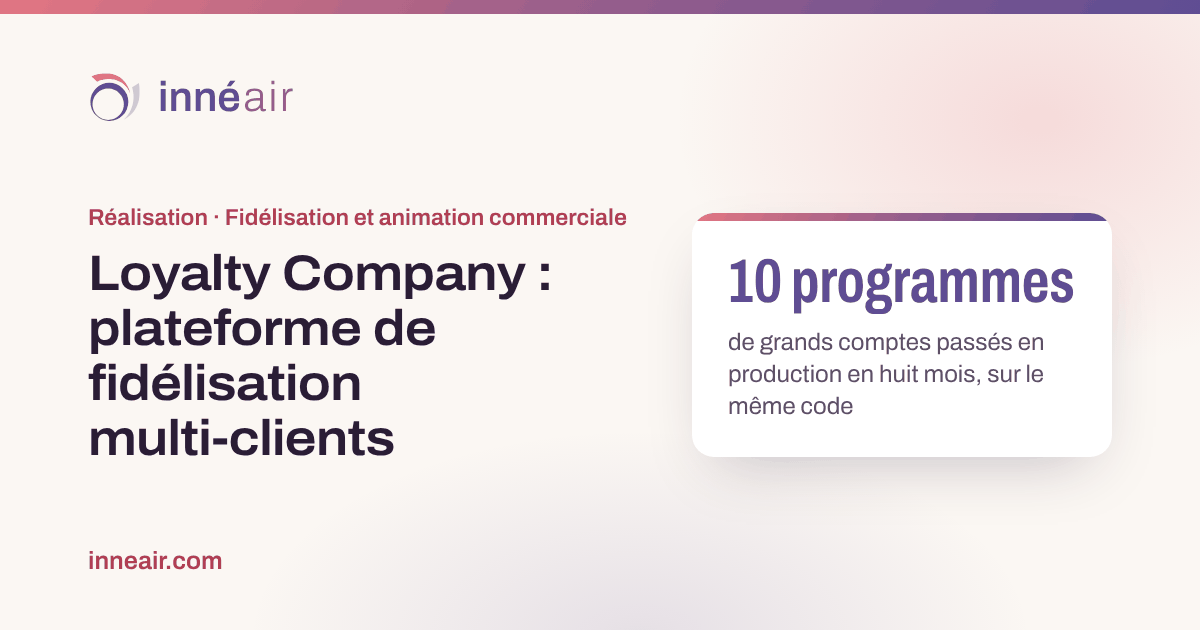
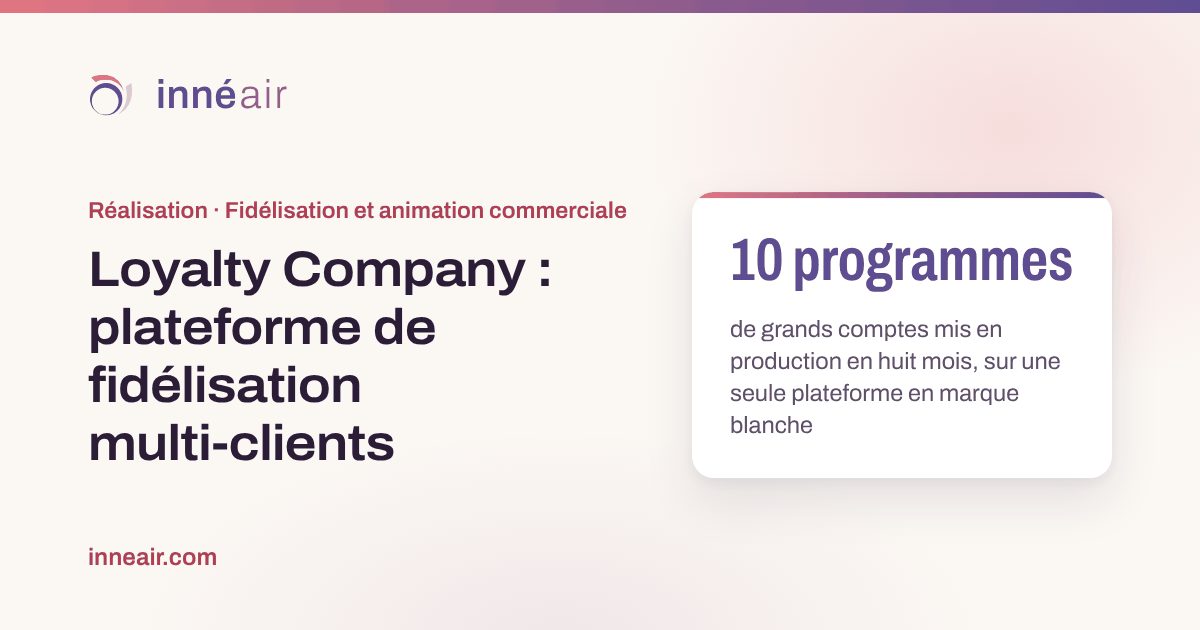
feat: align the Loyalty Company case with the corrected valorisation
- Role: Innéair led the development team (up to five developers) and piloted
  the platform with the product owner.
- MAX described as a white-label platform shared by all programmes; 10 key-account
  programmes put into production in eight months (homepage and cards, instead of 15-20).
- Muse Motivation and Kiss The Bride placed as the group's agencies since 2017;
  Muse presented MAX as its digital platform.
- Four authentication methods in production, named; all piloted by Innéair,
  SAML and signed links integrated by Innéair.
- Demo count and team size removed from key figures; delivery pace (35 versions
  in 18 months) and export rewrite (1 GB → 10 MB) put forward.
- Preview image updated.

Claude-Session: https://claude.ai/code/session_01AzLCSSsoxGkjDysbMUSmbQ

diff --git a/realisations/loyalty-company-plateforme-fidelisation.html b/realisations/loyalty-company-plateforme-fidelisation.html
@@ -4,18 +4,18 @@
 	<meta charset="utf-8">
 	<meta name="viewport" content="width=device-width, initial-scale=1">
 	<title>Loyalty Company : plateforme de fidélisation multi-clients | Innéair</title>
-	<meta name="description" content="Loyalty Company : Innéair a posé la structure de MAX, une seule application configurée pour chaque programme de fidélisation, et en a assuré la responsabilité technique.">
+	<meta name="description" content="Loyalty Company : Innéair a posé la structure de MAX, une seule application configurée pour chaque programme de fidélisation, et en a dirigé l'équipe de développement.">
 	<link rel="canonical" href="https://inneair.com/realisations/loyalty-company-plateforme-fidelisation.html">
 	<meta property="og:type" content="article">
 	<meta property="og:locale" content="fr_FR">
 	<meta property="og:site_name" content="Innéair">
 	<meta property="og:url" content="https://inneair.com/realisations/loyalty-company-plateforme-fidelisation.html">
 	<meta property="og:title" content="Loyalty Company : une plateforme de fidélisation pour les programmes de plusieurs grands comptes">
-	<meta property="og:description" content="Loyalty Company : Innéair a posé la structure de MAX, une seule application configurée pour chaque programme de fidélisation, et en a assuré la responsabilité technique.">
+	<meta property="og:description" content="Loyalty Company : Innéair a posé la structure de MAX, une seule application configurée pour chaque programme de fidélisation, et en a dirigé l'équipe de développement.">
 	<meta property="og:image" content="https://inneair.com/images/og/loyalty-company.png">
 	<meta property="og:image:width" content="1200">
 	<meta property="og:image:height" content="630">
-	<meta property="og:image:alt" content="Loyalty Company : 10 programmes de grands comptes passés en production en huit mois, sur le même code">
+	<meta property="og:image:alt" content="Loyalty Company : 10 programmes de grands comptes mis en production en huit mois, sur une seule plateforme en marque blanche">
 	<meta name="twitter:card" content="summary_large_image">
 	<link rel="preload" href="/assets/fonts/archivo-latin.woff2" as="font" type="font/woff2" crossorigin>
 	<link rel="stylesheet" href="/assets/css/main.css">
@@ -30,7 +30,7 @@
 				"@type": "Article",
 				"@id": "https://inneair.com/realisations/loyalty-company-plateforme-fidelisation.html#projet",
 				"headline": "Loyalty Company : une plateforme de fidélisation pour les programmes de plusieurs grands comptes",
-				"description": "Loyalty Company : Innéair a posé la structure de MAX, une seule application configurée pour chaque programme de fidélisation, et en a assuré la responsabilité technique.",
+				"description": "Loyalty Company : Innéair a posé la structure de MAX, une seule application configurée pour chaque programme de fidélisation, et en a dirigé l'équipe de développement.",
 				"inLanguage": "fr-FR",
 				"datePublished": "2026-10-28",
 				"dateModified": "2026-10-28",
@@ -87,20 +87,20 @@
 				</nav>
 				<p class="projet-titre__secteur">Fidélisation et animation commerciale, 2015 à 2017</p>
 				<h1>Loyalty Company : une plateforme de fidélisation pour les programmes de plusieurs grands comptes</h1>
-				<p class="projet-titre__chapo">Loyalty Company, groupe d'agences de marketing relationnel, conçoit pour de grands comptes des programmes de fidélisation et de stimulation des ventes&nbsp;: points, challenges, boutique de cadeaux, contenus et reporting. En 2016, le groupe a lancé MAX, une plateforme commune à tous ces programmes&nbsp;; Innéair en a posé la structure et en a assuré la responsabilité technique jusqu'en 2017. Muse Motivation, agence du groupe, propose aujourd'hui MAX à ses clients.</p>
+				<p class="projet-titre__chapo">Loyalty Company, groupe d'agences de marketing relationnel, conçoit pour de grands comptes des programmes de fidélisation et de stimulation des ventes&nbsp;: points, challenges, boutique de cadeaux, contenus et reporting. En 2016, le groupe a lancé MAX, une plateforme en marque blanche commune à tous ces programmes&nbsp;; Innéair en a posé la structure et, jusqu'en 2017, en a dirigé l'équipe de développement. En 2017, Muse Motivation, l'agence du groupe consacrée à la motivation des forces de vente, a présenté MAX comme sa plateforme digitale d'animation.</p>
 			</div>
 		</div>
 
 		<div class="wrap projet">
 
 			<dl class="fiche">
-				<div><dt>Client</dt><dd>Loyalty Company, groupe d'agences de marketing relationnel et de fidélisation</dd></div>
+				<div><dt>Client</dt><dd>Loyalty Company, groupe d'agences de marketing relationnel et de fidélisation, réunies en 2017 sous les noms Kiss The Bride et Muse Motivation</dd></div>
 				<div><dt>Plateforme</dt><dd>MAX, d'abord appelée LWS&nbsp;: une seule application, déployée et configurée pour chaque programme client</dd></div>
-				<div><dt>Intervention d'Innéair</dt><dd>Structure de l'application et de l'API, responsabilité technique en binôme avec le product owner, authentification d'entreprise, livraisons et documentation</dd></div>
+				<div><dt>Intervention d'Innéair</dt><dd>Direction de l'équipe de développement, structure de l'application et de l'API, pilotage du produit en binôme avec le product owner, authentification d'entreprise, livraisons et documentation</dd></div>
 				<div class="fiche__large"><dt>Technologies</dt><dd><ul class="technos">
 					<li><span>Back-end</span> PHP, Symfony, Doctrine</li>
 					<li><span>API</span> REST, GraphQL</li>
-					<li><span>Interface</span> AngularJS</li>
+					<li><span>Interface</span> AngularJS, React pour le back-office</li>
 					<li><span>Identité</span> SAML 2.0, JWT, LDAP</li>
 					<li><span>Asynchrone</span> IronMQ</li>
 					<li><span>Données</span> MySQL</li>
@@ -111,47 +111,46 @@
 				<section class="etape">
 					<h2>Une seule application pour tous les programmes</h2>
 					<aside class="encart" aria-label="À retenir">
-						<p><strong>10&nbsp;programmes</strong>clients en production en huit mois, sur le même code</p>
-						<p><strong>11&nbsp;démos</strong>instances de démonstration pour les équipes commerciales</p>
+						<p><strong>10&nbsp;programmes</strong>de grands comptes en production en huit mois, sur une seule plateforme en marque blanche</p>
 					</aside>
 					<div class="etape__texte">
-						<p>Jusque-là, chaque programme était un projet dédié, construit et personnalisé pour son client. Avec MAX, d'abord appelée LWS, <strong>le groupe a choisi une seule application, dupliquée pour chaque client avec sa propre configuration</strong>&nbsp;: chaque fonctionnalité développée pour l'un profite à tous. L'équipe a déployé une instance par programme, configurée par un fichier de paramètres propre à chacun.</p>
-						<p>En janvier 2016, Innéair a posé la structure de l'application Symfony et de son API, puis en a assuré la responsabilité technique pendant dix-neuf mois, en binôme avec le product owner et sous la responsabilité du directeur technique et du directeur du numérique du groupe. D'octobre 2016 à mai 2017, dix programmes clients sont passés en production sur ce même code, dont ceux de Michelin, d'Euromaster, de PepsiCo et de GroupAuto&nbsp;; Innéair a elle-même préparé la configuration de production de plusieurs d'entre eux, dont ceux de PepsiCo et d'Euromaster.</p>
+						<p>Jusque-là, chaque programme était un projet dédié, construit et personnalisé pour son client. Avec MAX, d'abord appelée LWS, <strong>le groupe a choisi une seule application en marque blanche, dupliquée pour chaque client avec sa propre configuration</strong>&nbsp;: chaque fonctionnalité développée pour l'un profite à tous. L'équipe a déployé une instance par programme, configurée par un fichier de paramètres propre à chacun.</p>
+						<p>En janvier 2016, Innéair a posé la structure de l'application Symfony et de son API, puis, pendant dix-neuf mois, a dirigé une équipe qui a compté jusqu'à cinq développeurs et piloté la plateforme en binôme avec le product owner, sous la responsabilité du directeur technique et du directeur du numérique du groupe. D'octobre 2016 à mai 2017, l'équipe a mis en production dix programmes sur cette même plateforme, dont ceux de Michelin, d'Euromaster, de PepsiCo et de GroupAuto, puis les a livrés à chaque nouvelle version&nbsp;; Innéair a elle-même préparé la configuration de production de plusieurs d'entre eux, dont ceux de PepsiCo et d'Euromaster.</p>
 					</div>
 				</section>
 
 				<section class="etape">
 					<h2>Se brancher sur les systèmes d'information des grands comptes</h2>
 					<aside class="encart" aria-label="À retenir">
-						<p><strong>5&nbsp;modes</strong>de connexion selon le programme, dont l'authentification unique SAML et le lien signé, intégrés par Innéair</p>
+						<p><strong>4&nbsp;modes</strong>d'authentification en production&nbsp;: formulaire, annuaire LDAP, SSO SAML&nbsp;2.0 et lien signé JWT</p>
 					</aside>
 					<div class="etape__texte">
-						<p>Chaque client voulait son programme à sa marque, avec ses fonctionnalités et ses règles d'accès. Selon le programme, les participants se connectaient par un formulaire, par un annuaire LDAP, par les comptes du système central du groupe, par l'authentification unique de leur entreprise ou par un lien signé. <strong>Innéair a intégré les deux derniers</strong>&nbsp;: l'authentification unique SAML 2.0, pour des programmes comme celui de Michelin, puis la connexion par lien signé JWT depuis le système d'information du client.</p>
+						<p>Chaque client voulait son programme à sa marque, avec ses fonctionnalités et ses règles d'accès. Selon le programme, les participants s'authentifiaient par un formulaire, par un annuaire LDAP, par l'authentification unique (SSO) de leur entreprise ou par un lien signé. <strong>Innéair a piloté ces quatre modes et intégré elle-même les deux derniers</strong>&nbsp;: l'authentification unique SAML 2.0, pour des programmes comme celui de Michelin, puis la connexion par lien signé JWT depuis le système d'information du client.</p>
 					</div>
 				</section>
 
 				<section class="etape">
 					<h2>Des modules qui se testent isolément</h2>
 					<div class="etape__texte">
-						<p>MAX s'appuyait sur le système central du groupe, qui tenait le catalogue, les commandes et les comptes de points. Innéair a regroupé les modules de la plateforme dans un seul dépôt, puis <strong>a sorti le reporting dans un module qui se teste et se publie à part</strong>. Ses tableaux de bord et ses classements, comme les produits et les catégories les plus commandés, lisaient la base analytique du système central. Quelques semaines plus tard, Innéair a regroupé de la même façon les appels au système central dans un module dédié.</p>
+						<p>MAX s'appuyait sur le système central du groupe, qui tenait le catalogue, les commandes et les comptes de points. Innéair a regroupé les modules de la plateforme dans un seul dépôt, puis <strong>a sorti le reporting dans un module qui se teste et se publie à part</strong>. Innéair a construit ce reporting&nbsp;: ses tableaux de bord et ses classements, comme les produits et les catégories les plus commandés, lisaient la base analytique du système central. Quelques semaines plus tard, Innéair a regroupé de la même façon les appels au système central dans un module dédié.</p>
 					</div>
 				</section>
 
 				<section class="etape">
 					<h2>Ne plus faire attendre l'animateur</h2>
 					<div class="etape__texte">
-						<p>Un animateur pouvait créditer ou débiter des points à de nombreux participants en déposant un fichier, mais l'interface restait bloquée tant que durait le traitement. Avec un développeur de l'équipe, <strong>Innéair a conçu le passage de ces imports en tâches asynchrones</strong>&nbsp;: le fichier est découpé en tâches qu'une file de messages distribue, et un courriel prévient l'animateur à la fin. Ce nouvel import est passé en production après le départ d'Innéair.</p>
+						<p>Un animateur pouvait créditer ou débiter des points à de nombreux participants en déposant un fichier, mais l'interface restait bloquée tant que durait le traitement. <strong>Innéair a conçu le passage de ces imports en tâches asynchrones</strong>&nbsp;: le fichier est découpé en tâches qu'une file de messages distribue, et un courriel prévient l'animateur à la fin. Ce nouvel import est passé en production après le départ d'Innéair.</p>
 					</div>
 				</section>
 
 				<section class="etape">
 					<h2>Livrer souvent sans dépendre d'une personne</h2>
 					<aside class="encart" aria-label="À retenir">
-						<p><strong>3&nbsp;à&nbsp;5</strong>développeurs dans le noyau de l'équipe en 2017, jusqu'à 13 contributeurs en 2016</p>
+						<p><strong>35&nbsp;versions</strong>en 18 mois, soit une toutes les deux semaines environ</p>
 						<p><strong>6&nbsp;environnements</strong>de la recette de chaque branche à la validation par le client</p>
 					</aside>
 					<div class="etape__texte">
-						<p>Les versions de MAX se succédaient à un rythme soutenu. Innéair a décrit les six environnements de la plateforme&nbsp;: chaque branche est validée en recette avant de rejoindre une branche de développement qui doit toujours rester stable, et chaque livraison passe par une validation du client. Elle a préparé une partie des versions, avec leurs scripts de migration et leurs notes de version, et consolidé les tests automatisés.</p>
+						<p>Les versions de MAX se succédaient à un rythme soutenu. Innéair a décrit les six environnements de la plateforme&nbsp;: chaque branche est validée en recette avant de rejoindre une branche de développement qui doit toujours rester stable, et chaque livraison passe par une validation du client. Elle pilotait la préparation des versions, avec leurs scripts de migration et leurs notes de version, et a consolidé les tests automatisés.</p>
 						<p><strong>Innéair a aussi écrit la documentation technique pour que chaque développeur puisse reprendre un sujet sans dépendre d'elle</strong>&nbsp;; avant son départ, elle l'a restructurée et y a décrit tous les modules.</p>
 					</div>
 				</section>

diff --git a/index.html b/index.html
@@ -201,7 +201,7 @@
 				<ul class="reach">
 					<li><strong>Plus de 4&nbsp;000</strong> installateurs professionnels utilisaient la plateforme Somfy fiabilisée par Innéair.</li>
 					<li><strong>5,4&nbsp;M</strong> de visiteurs uniques ont lu en 2016 les titres de Nivéales Médias publiés avec Origami.</li>
-					<li><strong>15 à 20</strong> plateformes d'animation commerciale de grands comptes ont été déployées sur Max en 2016 et 2017.</li>
+					<li><strong>10</strong> programmes d'animation commerciale de grands comptes, dont ceux de Michelin et de PepsiCo, sont passés en production sur Max en huit mois.</li>
 				</ul>
 			</div>
 		</section>
@@ -328,10 +328,10 @@
 					<article class="case" id="max">
 						<p class="case__sector">Fidélisation et animation commerciale, 2015 à 2017</p>
 						<h3>Max, Loyalty Company</h3>
-						<p>Innéair a posé la structure de Max, la plateforme d'animation commerciale qu'exploite aujourd'hui Muse Motivation, agence du groupe Loyalty Company&nbsp;: une seule application, configurée pour chaque client, dont les fonctionnalités profitent à tous les programmes. Elle y a intégré l'authentification unique SAML et la connexion par lien signé des grands comptes.</p>
+						<p>Innéair a posé la structure de Max, la plateforme d'animation commerciale en marque blanche du groupe Loyalty Company, proposée par son agence Muse Motivation&nbsp;: une seule application pour tous les programmes, dont ceux de Michelin et de PepsiCo. Elle y a intégré l'authentification unique SAML et la connexion par lien signé des grands comptes.</p>
 						<ul class="case__measures">
-							<li><strong>15 à 20</strong> plateformes de grands comptes déployées</li>
-							<li><strong>3 à 5</strong> développeurs dans le noyau de l'équipe</li>
+							<li><strong>10</strong> programmes de grands comptes mis en production en huit mois</li>
+							<li><strong>1&nbsp;Go&nbsp;→&nbsp;10&nbsp;Mo</strong> de mémoire pour des exports réécrits, sortis en une ou deux minutes</li>
 						</ul>
 						<p class="case__more"><a class="text-link text-link--onDark" href="/realisations/loyalty-company-plateforme-fidelisation.html">Lire le projet Loyalty Company</a></p>
 					</article>

diff --git a/realisations/index.html b/realisations/index.html
@@ -144,10 +144,10 @@
 						</svg>
 						<p class="case__sector">Fidélisation et animation commerciale, 2015 à 2017</p>
 						<h3>Max, Loyalty Company</h3>
-						<p>Innéair a posé la structure de Max, la plateforme d'animation commerciale qu'exploite aujourd'hui Muse Motivation, agence du groupe Loyalty Company&nbsp;: une seule application, configurée pour chaque client, dont les fonctionnalités profitent à tous les programmes. Elle y a intégré l'authentification unique SAML et la connexion par lien signé des grands comptes.</p>
+						<p>Innéair a posé la structure de Max, la plateforme d'animation commerciale en marque blanche du groupe Loyalty Company, proposée par son agence Muse Motivation&nbsp;: une seule application pour tous les programmes, dont ceux de Michelin et de PepsiCo. Elle y a intégré l'authentification unique SAML et la connexion par lien signé des grands comptes.</p>
 						<ul class="case__measures">
-							<li><strong>15 à 20</strong> plateformes de grands comptes déployées</li>
-							<li><strong>3 à 5</strong> développeurs dans le noyau de l'équipe</li>
+							<li><strong>10</strong> programmes de grands comptes mis en production en huit mois</li>
+							<li><strong>1&nbsp;Go&nbsp;→&nbsp;10&nbsp;Mo</strong> de mémoire pour des exports réécrits, sortis en une ou deux minutes</li>
 						</ul>
 						<p class="case__tags">Symfony, AngularJS, GraphQL, IronMQ, SAML</p>
 						<p class="case__more"><a class="text-link text-link--onDark" href="/realisations/loyalty-company-plateforme-fidelisation.html">Lire le projet Loyalty Company</a></p>
